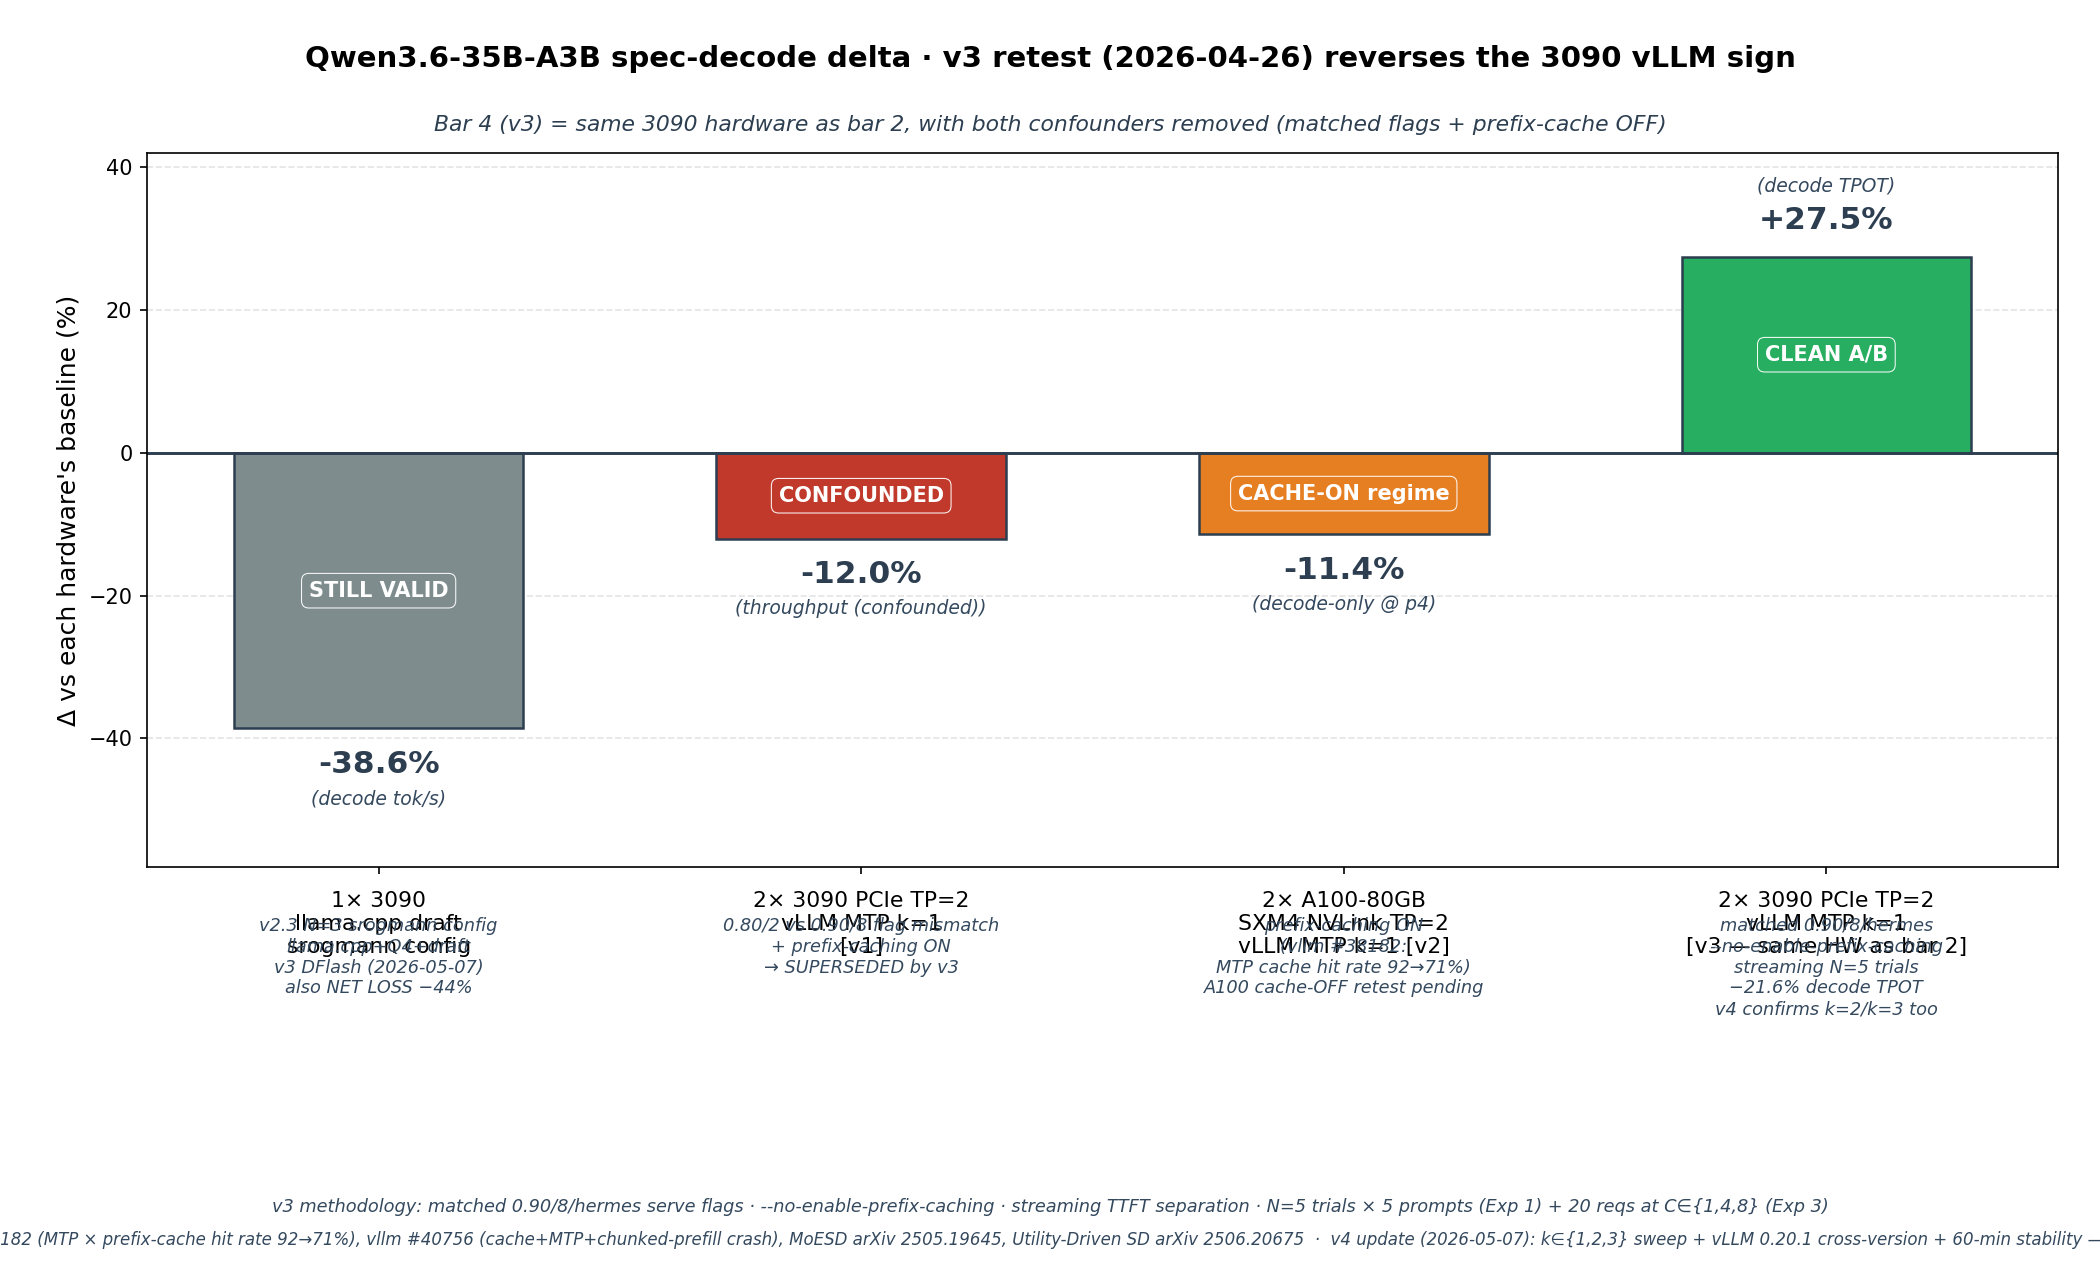
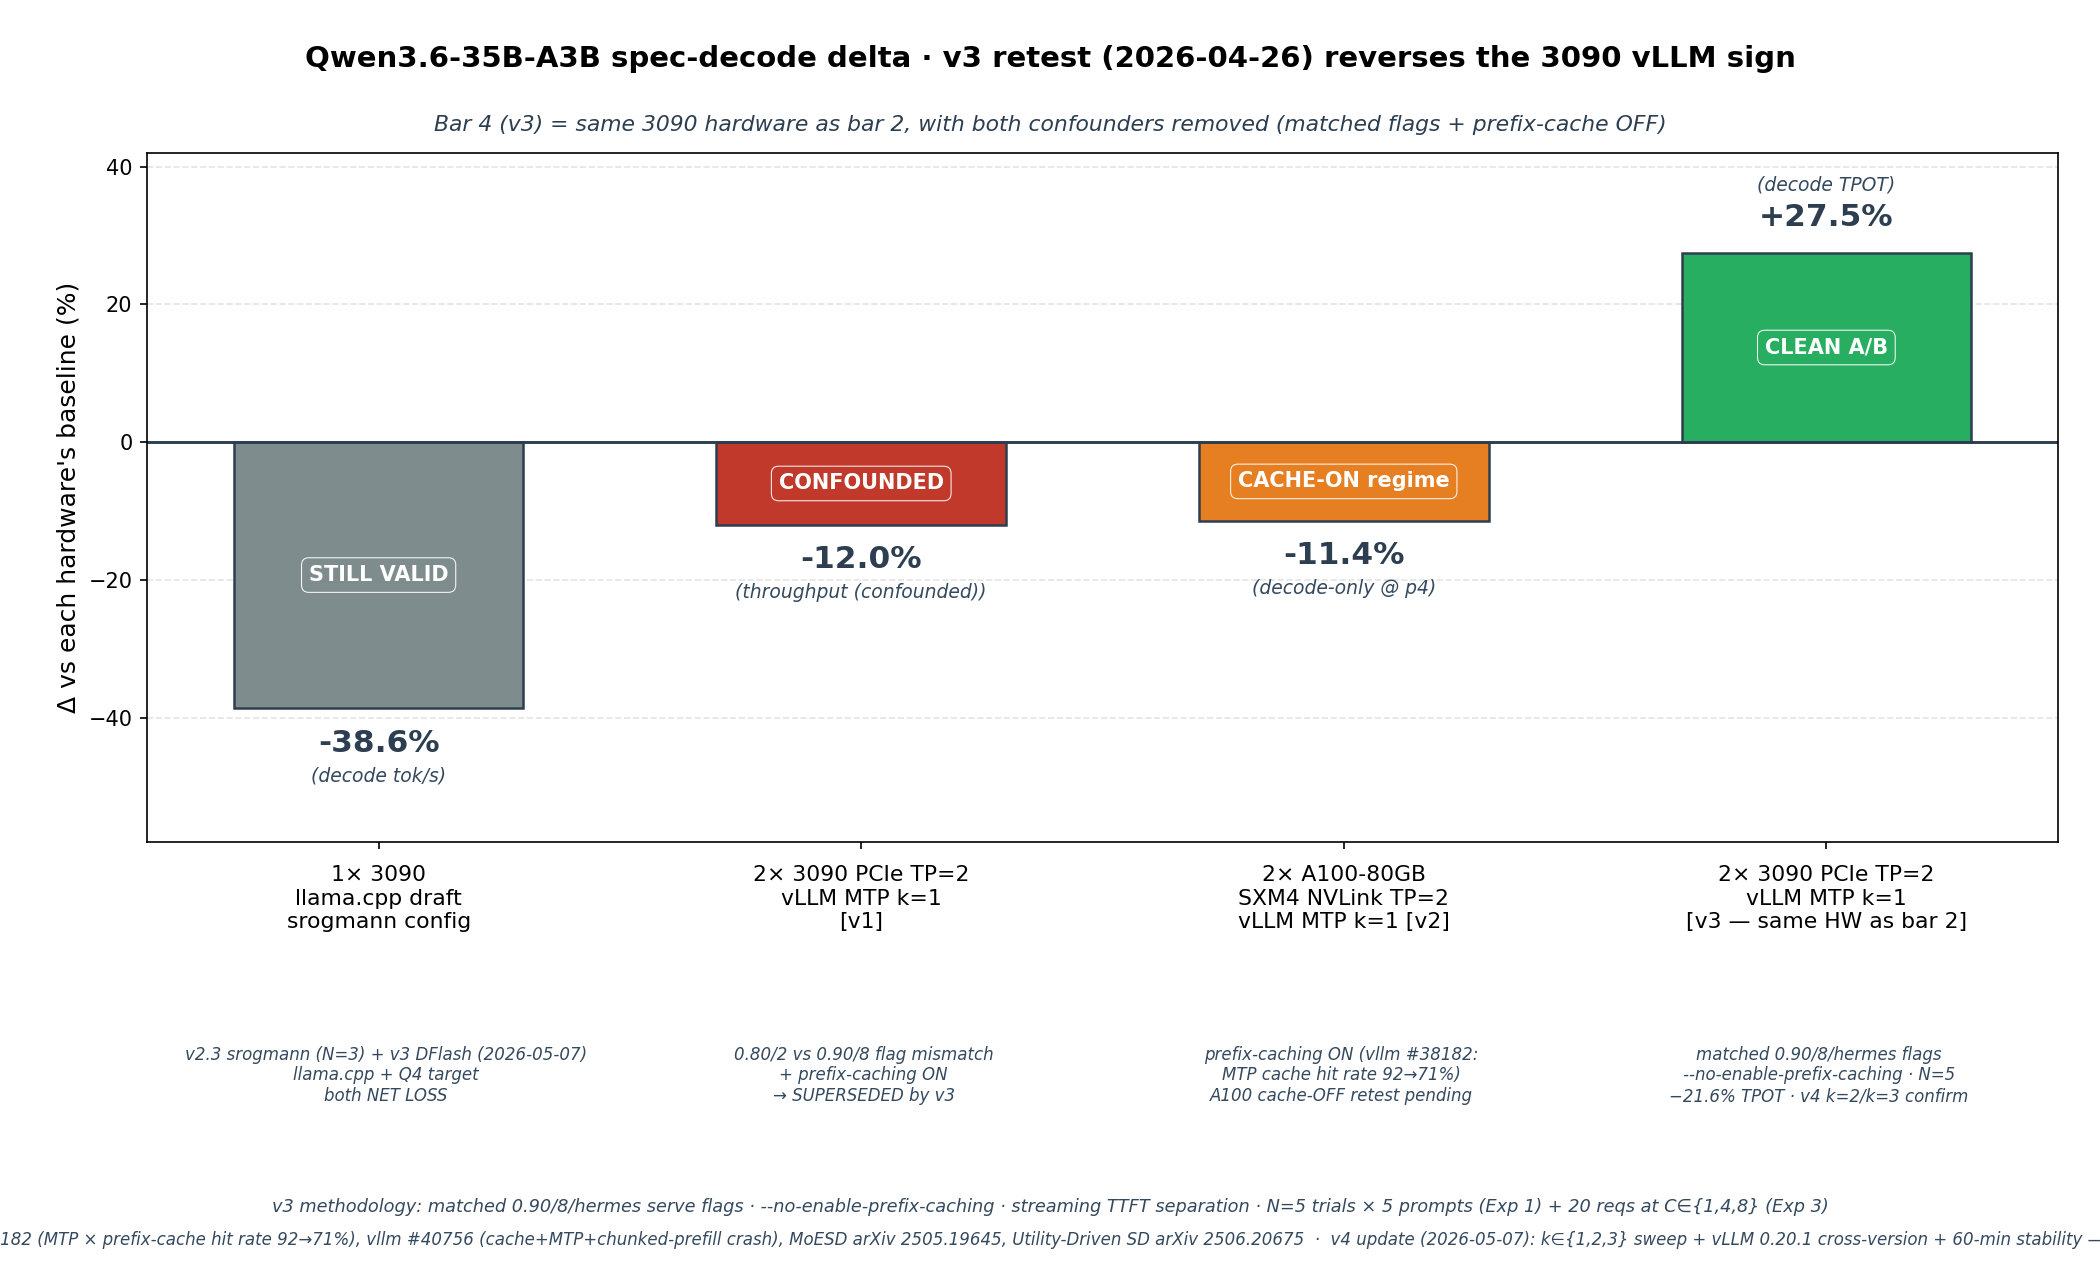
fix(plot): cross-hardware x-axis labels no longer overlap notes
The 2026-05-08 v4-reference update bumped bar 1 notes to 4 lines and
bar 4 notes to 5 lines, which crashed the bottom-margin notes into
the xtick hardware labels above and the methodology footer below.

Fix:
- Compress bar 1 + bar 4 notes back to 3 lines each (semantics preserved:
  bar 1 keeps both srogmann + DFlash NET LOSS reference; bar 4 keeps
  matched-flag/cache-OFF + N=5 + v4 k=2/k=3 confirm).
- Place notes via fig.text in figure-fraction coords (y=0.18) instead of
  axes data coords (y=-65) so they're decoupled from ax data limits.
- Bump bottom margin 0.30 → 0.34 to give the notes a proper band
  between xtick labels (auto y~0.22-0.30) and the methodology footer
  (y=0.06).

No data points changed.

diff --git a/analysis/plot_cross_hardware.py b/analysis/plot_cross_hardware.py
@@ -44,15 +44,15 @@ status_colors = {
     "CLEAN A/B": "#27AE60",
 }
 notes = [
-    "v2.3 N=3 srogmann config\nllama.cpp+Q4+draft\nv3 DFlash (2026-05-07)\nalso NET LOSS −44%",
+    "v2.3 srogmann (N=3) + v3 DFlash (2026-05-07)\nllama.cpp + Q4 target\nboth NET LOSS",
     "0.80/2 vs 0.90/8 flag mismatch\n+ prefix-caching ON\n→ SUPERSEDED by v3",
-    "prefix-caching ON\n(vllm #38182:\nMTP cache hit rate 92→71%)\nA100 cache-OFF retest pending",
-    "matched 0.90/8/hermes\n--no-enable-prefix-caching\nstreaming N=5 trials\n−21.6% decode TPOT\nv4 confirms k=2/k=3 too",
+    "prefix-caching ON (vllm #38182:\nMTP cache hit rate 92→71%)\nA100 cache-OFF retest pending",
+    "matched 0.90/8/hermes flags\n--no-enable-prefix-caching · N=5\n−21.6% TPOT · v4 k=2/k=3 confirm",
 ]
 
 n = len(hardware_labels)
 fig, ax = plt.subplots(figsize=(14, 8.5), constrained_layout=False)
-fig.subplots_adjust(left=0.07, right=0.98, top=0.88, bottom=0.32)
+fig.subplots_adjust(left=0.07, right=0.98, top=0.88, bottom=0.34)
 
 x = np.arange(n)
 width = 0.6
@@ -118,15 +118,15 @@ for bar, tag in zip(bars, status_tags):
         ),
     )
 
-# Notes below x-axis labels (in the bottom margin)
+# Notes below x-axis labels (figure-fraction coords; sit between xtick labels and footers)
 for i, note in enumerate(notes):
-    ax.text(
-        x[i],
-        -65,
+    fig.text(
+        ax.get_position().x0 + (i + 0.5) / n * (ax.get_position().x1 - ax.get_position().x0),
+        0.18,
         note,
         ha="center",
         va="top",
-        fontsize=8.5,
+        fontsize=8.0,
         style="italic",
         color="#34495E",
     )
